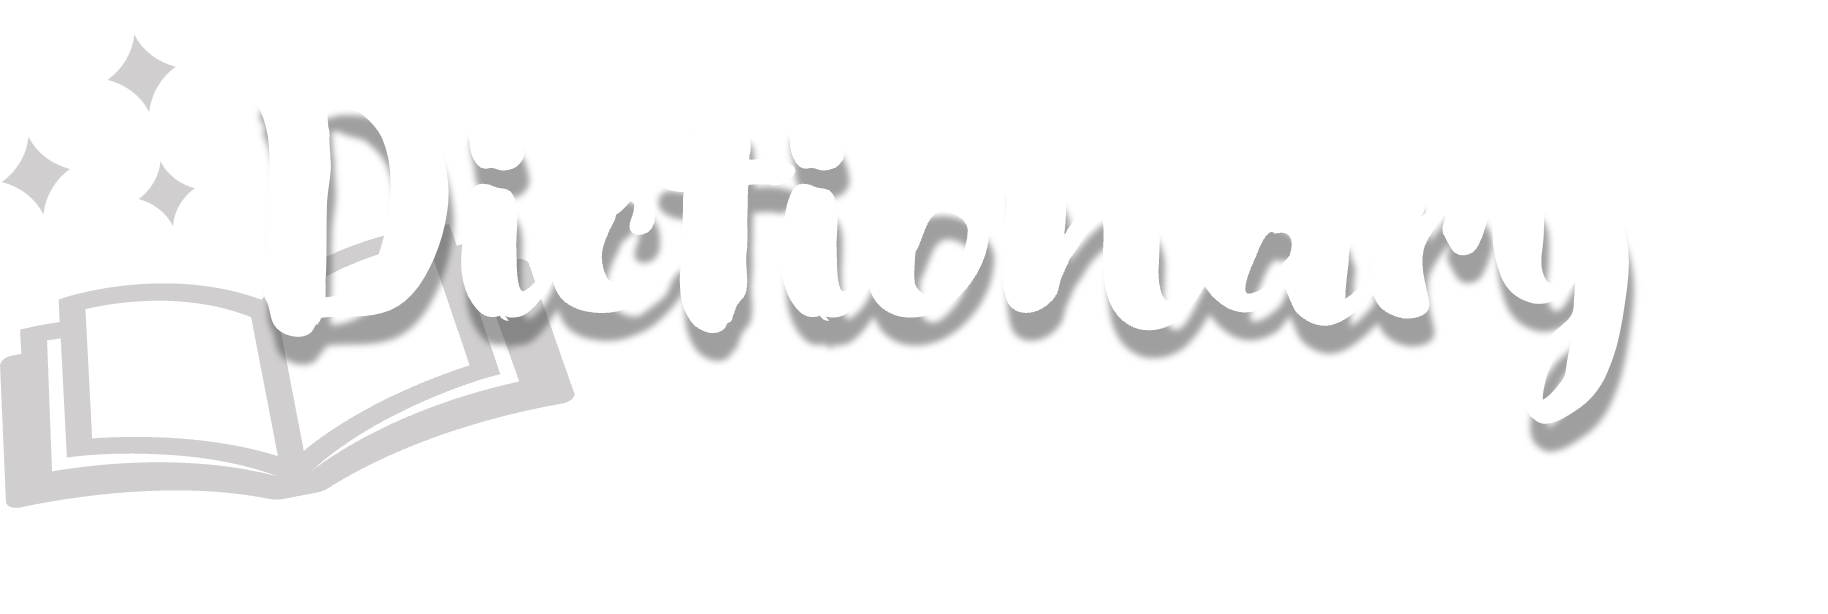
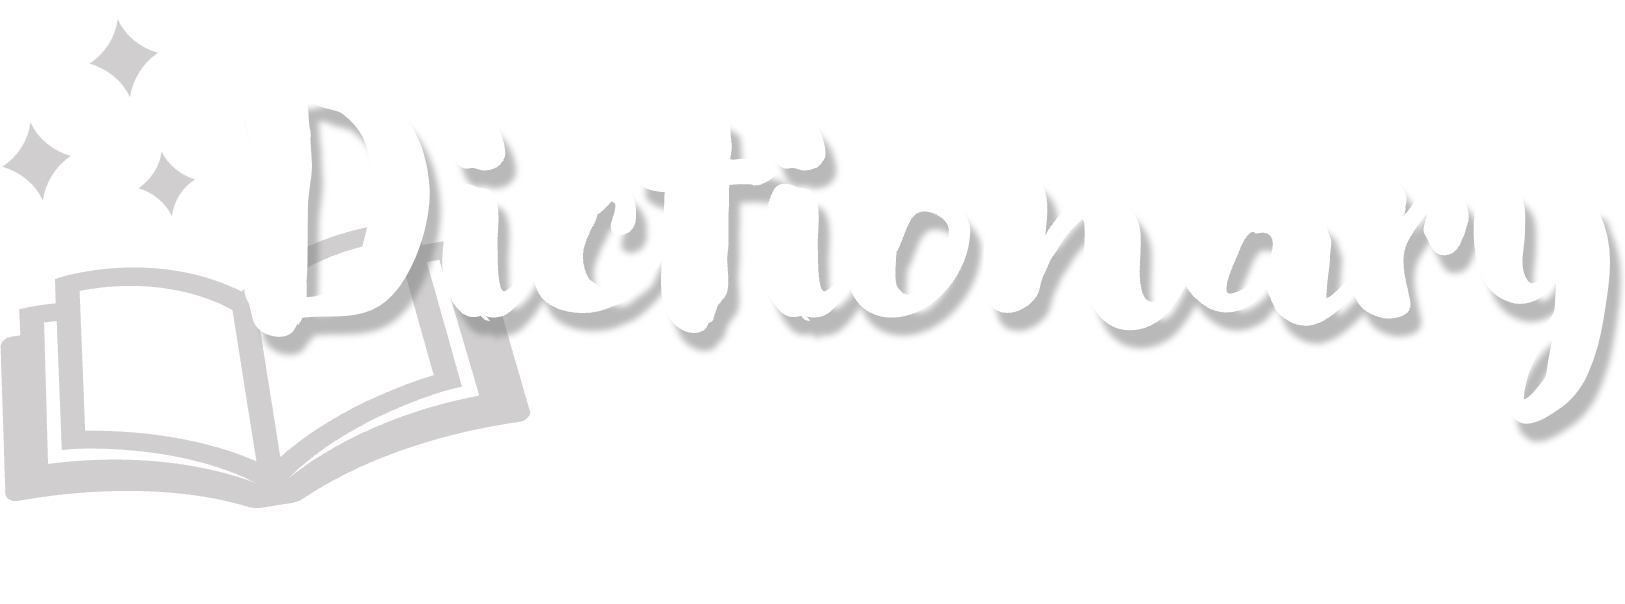
Actualizando estilos de resultados de búsqueda

diff --git a/src/parts/Results/Results.js b/src/parts/Results/Results.js
@@ -1,0 +1,43 @@
+import Meaning from '../../components/Meaning/Meaning';
+
+import './Results.css';
+
+export default function Results(props) {
+
+    function handlePlay() {
+        for (let i in props.results.phonetics) {
+            if (props.results.phonetics[i].audio !== '') {
+                const audio = new Audio(props.results.phonetics[i].audio);
+                audio.play();
+                break;
+            }
+        }
+    }
+
+    if (props.results) {
+        return (
+            <>
+                <div className="result-word">
+                    <button onClick={ handlePlay }>
+                        <i className="fa-solid fa-volume-high"></i>
+                    </button>
+                    <h2>{ props.results.word }</h2>
+                    <p>{ props.results.phonetics[0].text }</p>
+                </div>
+                { props.results.meanings.map((meaning, index) => {
+                    return (
+                        <div key={ index } className="result-meaning">
+                            <Meaning data={ meaning } />
+                            {
+                                (meaning.synonyms.length === 0) ? null :
+                                <p className="syn-content"><strong>Synonyms:</strong> { meaning.synonyms.join(", ") }</p>
+                            }
+                        </div>
+                    );
+                })}
+            </>
+        );
+    } else {
+        return null;
+    }
+}  

diff --git a/src/components/SearchBar/SearchBar.css b/src/components/SearchBar/SearchBar.css
@@ -2,6 +2,24 @@
     display: flex;
 }
 
+.search-bar > button {
+    padding: 8px 20px;
+    color: var(--white);
+    font-size: 15px;
+    background-color: var(--auxiliar);
+    border: none;
+}
+  
+.search-bar > button:hover {
+    background-color: var(--auxiliar-hover);
+    cursor: pointer;
+    transition: all 200ms;
+}
+
+button[type="submit"] {
+    border-radius: 10px 0 0 10px;
+}
+
 input[type="search"] {
     width: 100%;
     padding: 15px 20px;
@@ -10,7 +28,7 @@ input[type="search"] {
     color: var(--white);
     background: var(--input-bar);
     border: none;
-    border-radius: 10px 0 0 10px;
+    border-radius: 0 10px 10px 0;
 }
 
 input[type="search"]:focus {
@@ -28,22 +46,4 @@ input[type="search"]::-webkit-search-cancel-button {
 
 input[type="search"]:focus::-webkit-search-cancel-button {
     transition: all 200ms;
-}
-
-.search-bar > button {
-    padding: 8px 20px;
-    color: var(--white);
-    font-size: 15px;
-    background-color: var(--auxiliar-color);
-    border: none;
-}
-  
-.search-bar > button:hover {
-    background-color: var(--auxiliar-hover-color);
-    cursor: pointer;
-    transition: all 200ms;
-}
-
-button[type="submit"] {
-    border-radius: 0 10px 10px 0;
 }

diff --git a/src/context/ThemeProvider.js b/src/context/ThemeProvider.js
@@ -3,7 +3,9 @@ import React, { useState, useEffect } from 'react';
 import { themes, ThemeContext } from './ThemeContext';
 
 export default function ThemeProvider(props) {
-  const [theme, setTheme] = useState(themes.dark);
+  const [theme, setTheme] = useState(
+    (localStorage.getItem('dictionary-theme')) ? localStorage.getItem('dictionary-theme') : themes.dark
+  );
 
   function changeTheme(theme) {
     setTheme(theme);
@@ -12,11 +14,15 @@ export default function ThemeProvider(props) {
   useEffect(() => {
     switch (theme) {
       case themes.light:
+        localStorage.setItem('dictionary-theme', 'light-theme');
+        document.querySelector('input[type="checkbox"]').checked = true;
         document.body.classList.add('light-theme');
         document.body.classList.remove('dark-theme');
+        
         break;
       case themes.dark:
       default:
+        localStorage.setItem('dictionary-theme', 'dark-theme');
         document.body.classList.add('dark-theme');
         document.body.classList.remove('light-theme');
         break;

diff --git a/src/assets/Variables.css b/src/assets/Variables.css
@@ -1,24 +1,32 @@
 :root {
-    --auxiliar-color: rgba(255, 255, 255, 0.25);
-    --auxiliar-hover-color: rgba(255, 255, 255, 0.45);
     --toggle-dark-bar: rgba(255, 255, 255, 0.4);
     --toggle-light-bar: #625ad3;
     --input-bar: rgba(0, 0, 0, 0.15);
 
-    --shadow: #2020203d;
-    --gray: #ffffffba;
+    --black-shadow: #20202050;
+    --white-shadow: #f5f5f5ba;
     --white: #fff;
 }
 
 .light-theme {
-    --bg-header: #2c1b64;
+    --primary: #2c1b64;
+    --secondary: #341d80;
+    --auxiliar: rgba(165, 165, 165, 0.25);
+    --auxiliar-hover: rgba(165, 165, 165, 0.45);
+    --font-auxiliar: #393939;
+
     --bg-card: #ebebeb;
 }
   
 .dark-theme {
-    --bg-header: #1c2034;
+    --primary: #1c2034;
+    --secondary: #191d2f;
+    --auxiliar: rgba(94, 94, 94, 0.25);
+    --auxiliar-hover: rgba(94, 94, 94, 0.45);
+    --font-auxiliar: #cccccc;
+
     --bg-card: #262c46;
 
-    background: #21263d;
+    background: #21263c;
     color: var(--white);
 }

diff --git a/src/components/Meaning/Meaning.js b/src/components/Meaning/Meaning.js
@@ -1,4 +1,3 @@
-import '../../assets/Variables.css';
 import './Meaning.css';
 
 export default function Meaning(props) {
@@ -7,8 +6,14 @@ export default function Meaning(props) {
             <h3>{ props.data.partOfSpeech }</h3>
             { props.data.definitions.map((def, index) => {
                 return (
-                    <div key={ index }>
-                        <p>{ def.definition }</p>
+                    <div key={ index } className="row-def">
+                        <p>{ index + 1 }</p>
+                        <div className="def-content">
+                            <p>{ def.definition }</p>
+                            {
+                                (def.example) ? <p>Example: { def.example }</p> : null
+                            }
+                        </div>
                     </div>
                 );
             })}

diff --git a/src/pages/Dictionary.css b/src/pages/Dictionary.css
@@ -1,14 +1,14 @@
 .card {
     color: var(--white);
-    background: var(--bg-header);
-    box-shadow: 1px 2px var(--shadow);
+    background: var(--primary);
+    box-shadow: 1px 2px var(--black-shadow);
 }
 
 .img-title {
     display: block;
-    width: 350px;
+    width: 360px;
     margin: 0 auto;
-    padding: 30px 0 80px;
+    padding: 50px 0 100px;
 }
 
 .content {
@@ -22,11 +22,12 @@
 }
 
 .card .content p:nth-child(3) {
-    padding-top: 3px;
+    padding-top: 5px;
     font-size: 12px;
-    color: var(--gray);
+    color: var(--white-shadow);
+    text-align: right;
 }
 
 .svg-wave path {
-    fill: var(--bg-header);
+    fill: var(--primary);
 }

diff --git a/src/components/SearchBar/SearchBar.js b/src/components/SearchBar/SearchBar.js
@@ -1,12 +1,12 @@
 import './SearchBar.css';
 
 export default function SearchBar(props) {
-    return (
-        <form className="search-bar" onSubmit={ props.onSubmit }>
-          <input type="search" onChange={ props.onChange } />
-          <button type="submit">
-            <i className="fa-solid fa-magnifying-glass"></i>
-          </button>
-        </form>
-    );
+  return (
+    <form className="search-bar" onSubmit={ props.onSubmit }>
+      <button type="submit">
+        <i className="fa-solid fa-magnifying-glass"></i>
+      </button>
+      <input type="search" onChange={ props.onChange } autoFocus={ true } />
+    </form>
+  );
 }  

diff --git a/src/parts/Results/Results.css b/src/parts/Results/Results.css
@@ -1,0 +1,39 @@
+.result-word {
+    display: grid;
+    margin-bottom: 20px;
+    grid-template-columns: 55px 1fr;
+    grid-template-rows: 1fr auto;
+    column-gap: 20px;
+}
+
+.result-word button {
+    margin: 5px 0 0;
+    grid-row: 1 / 3;
+    color: var(--white);
+    font-size: 17px;
+    background: var(--secondary);
+    border: none;
+    border-radius: 50%;
+    cursor: pointer;
+}
+
+.result-word h2 {
+    font-size: 32px;
+}
+
+.result-word p {
+    font-size: 14px;
+}
+
+.result-meaning {
+    padding: 20px 0;
+}
+
+.syn-content {
+    margin: 10px 0 0;
+    font-size: 14px;
+}
+
+.syn-content > strong {
+    font-size: 14.5px;
+}

diff --git a/src/components/Meaning/Meaning.css b/src/components/Meaning/Meaning.css
@@ -1,0 +1,26 @@
+.result-meaning h3 {
+    padding: 0 0 5px;
+    font-size: 20px;
+    font-style: italic;
+}
+
+.row-def {
+    display: grid;
+    margin: 0 0 0 20px;
+    padding: 5px 0;
+    grid-template-columns: 30px 1fr;
+    column-gap: 10px;
+}
+
+.row-def > p:nth-child(1) {
+    margin-top: 3px;
+    font-size: 13.5px;
+    color: var(--font-auxiliar);
+    text-align: center;
+}
+
+.def-content > p:nth-child(2) {
+    padding-top: 5px;
+    font-size: 14px;
+    color: var(--font-auxiliar);
+}

diff --git a/src/parts/Header/Header.js b/src/parts/Header/Header.js
@@ -6,7 +6,9 @@ import ToggleTheme from '../../components/ToggleTheme/ToggleTheme';
 import './Header.css';
 
 export default function Header() {
-    const [darkTheme, setDarkTheme] = useState(true);
+    const [darkTheme, setDarkTheme] = useState(
+        (localStorage.getItem('dictionary-theme') === 'dark-theme') ? true : false
+    );
 
     return (
         <header>

diff --git a/src/pages/Dictionary.js b/src/pages/Dictionary.js
@@ -1,7 +1,7 @@
 import axios from "axios";
 import React, { useState } from "react";
 
-import Results from "../components/Results/Results";
+import Results from "../parts/Results/Results";
 import SearchBar from "../components/SearchBar/SearchBar";
 
 import './Dictionary.css';

diff --git a/src/parts/Header/Header.css b/src/parts/Header/Header.css
@@ -1,5 +1,5 @@
 header {
     padding: 20px 3rem 0;
     text-align: right;
-    background: var(--bg-header);
+    background: var(--primary);
 }
